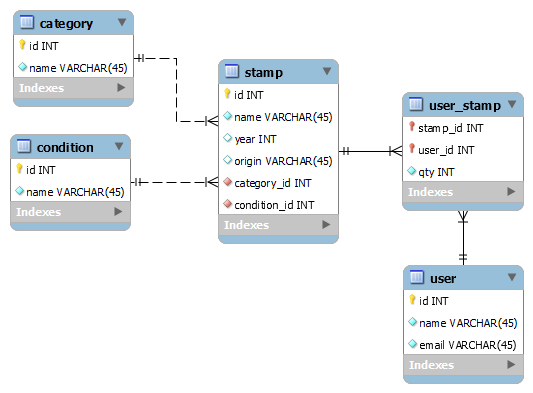
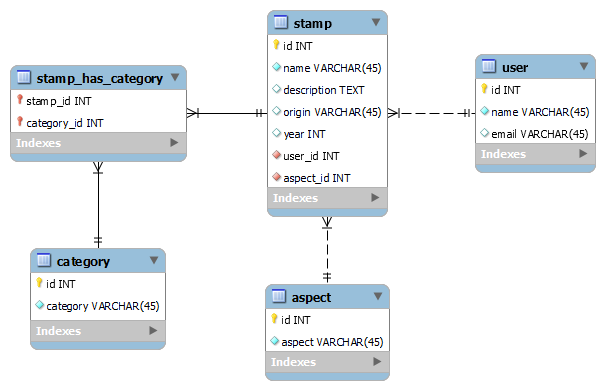
all new system

diff --git a/class/Manager.php b/class/Manager.php
@@ -4,22 +4,6 @@ require "./class/Stamp.php";
 require "./class/User.php";
 
 class Manager {
-    private $stampReq = [ 
-            "table" => "stamp",
-            "tablesMerge" => [
-                "aspect",
-                "category"
-            ],
-            "targets" => [
-                "stamp.id",
-                "stamp.name as name",
-                "stamp.year",
-                "stamp.origin",
-                "stamp.description",
-                "aspect.name as aspect", 
-                "category.name as category"
-            ]
-    ];
     private $crud;
 
     public function __construct() {
@@ -30,10 +14,30 @@ class Manager {
         return $this->crud->readStd($this->stampReq["table"], ["stamp.name", "stamp.id"]);
     }
 
-    public function getObjStamps() {
+    public function getObjStamps($where = null) {
         $objStamps = [];
-        $stamps = $this->crud->readStd($this->stampReq["table"], $this->stampReq["targets"], $this->stampReq["tablesMerge"]);
-        foreach ($stamps as $stamp) $objStamps[] = new Stamp($stamp);
+        $targets = [
+            "stamp.*",
+            "aspect.aspect"
+        ];
+        $tablesMrg = [
+            "aspect"
+        ];
+        $stamps = $this->crud->read("stamp", $targets, $tablesMrg, $where);
+        foreach ($stamps as $stamp) {
+            $targets = [
+                "category.category"
+            ];
+            $tablesMrg = [
+                "category"
+            ];
+            $where = [
+                "target" => "stamp_id",
+                "value" => $stamp["id"]
+            ];
+            $categories = $this->crud->read("stamp_category", $targets, $tablesMrg, $where);
+            $objStamps[] = new Stamp($stamp, $categories);
+        }
         return $objStamps;
     }
 
@@ -42,7 +46,7 @@ class Manager {
             "target" => "stamp.id",
             "value" => $id
         ];
-        $stamps = $this->crud->readStd($this->stampReq["table"], $this->stampReq["targets"], $this->stampReq["tablesMerge"], $where);
+        $stamps = $this->crud->read($this->stampReq["table"], $this->stampReq["targets"], $this->stampReq["tablesMerge"], $where);
         foreach ($stamps as $stamp) $objStamp = new Stamp($stamp);
         return $objStamp;
     }

diff --git a/crud/Crud.php b/crud/Crud.php
@@ -9,7 +9,7 @@ class Crud extends PDO {
         $this->dbname = $dbname;
     }
 
-    public function readStd($tableOg, $targets = "*", $tablesMg = null, $where = null, $field = "id", $order = "ASC") {
+    public function read($tableOg, $targets = "*", $tablesMrg = null, $where = null, $field = "id", $order = "ASC") {
         $sqlWhere = "";
         if ($where) {
             $target = $where["target"];
@@ -18,16 +18,18 @@ class Crud extends PDO {
         }
         if ($targets != "*") $targets = implode(", ", $targets);
         $sql = "SELECT $targets FROM $tableOg";
-        if ($tablesMg) {
+        if ($tablesMrg) {
             $sqlMerge = "";
-            foreach ($tablesMg as $tableMg) {
-                $idOg = $tableMg . "_id";
-                $id = $tableMg . ".id";
-                $sqlMerge .= " INNER JOIN $this->dbname.$tableMg ON $id = $idOg";
+            foreach ($tablesMrg as $tableMrg) {
+                $idOg = $tableMrg . "_id";
+                $id = $tableMrg . ".id";
+                $sqlMerge .= " INNER JOIN $this->dbname.$tableMrg ON $id = $idOg";
             }
             $sql .= "$sqlMerge";
         } 
         $sql .= "$sqlWhere;";
+/*         print_r($sql);
+        die(); */
         $query = $this->query($sql);
         return $query->fetchAll();
     }

diff --git a/class/Stamp.php b/class/Stamp.php
@@ -1,25 +1,24 @@
 <?php
 
 class Stamp {
-    public
+    private
     $id,
     $name,
     $description,
     $origin,
     $year,
-    $category,
+    $categories,
     $aspect;
 
-    public function __construct($stamp) {
+    public function __construct($stamp, $categories) {
         $this->id =$stamp["id"];
         $this->name = $stamp["name"];
         $this->description = $stamp["description"];
         $this->origin = $stamp["origin"];
         $this->year = $stamp["year"];
-        $this->category = $stamp["category"];
         $this->aspect = $stamp["aspect"];
+        $this->categories = $categories;
     }
-
 
     public function getName() {
         return $this->name;
@@ -61,7 +60,7 @@ class Stamp {
             <form action="stamp-modify.php" method="post">
                 <input type="hidden" name="id" value="<?= $this->id ?>">
                 <input type="submit" value="modify">
-        </form>
+            </form>
         </section>
         <?php
     }

diff --git a/class/ViewContent.php b/class/ViewContent.php
@@ -11,17 +11,17 @@ class ViewContent {
             </header>
             <section>
 
-        <?php for ($i=0; $i < 5; $i++) $objStamps[$i]->injectShort(); ?>
+        <?php foreach ($objStamps as $objStamp) $objStamp->injectShort(); ?>
 
             </section>
         </main>
         <?php
     }
 
-    static public function stampShow($objStamp) {
+    static public function stampShow($objStamps) {
         ?>
         <main>
-           <?php $objStamp->injectLong(); ?>
+        <?php foreach ($objStamps as $objStamp) $objStamp->injectLong(); ?>
         </main>
         <?php
     }

diff --git a/stamp-show.php b/stamp-show.php
@@ -12,8 +12,7 @@ ViewLayout::schoolHeader("home");
 ViewLayout::navigation();
 
 $manager = new Manager();
-$objStamp = $manager->getObjStamp($id);
-
-ViewContent::stampShow($objStamp);
+$objStamps = $manager->getObjStamps(["target" => "stamp.id", "value" => $id]);
+ViewContent::stampShow($objStamps);
 ViewLayout::footer();
 ?>

diff --git a/index.php b/index.php
@@ -8,7 +8,6 @@ ViewLayout::navigation();
 
 $manager = new Manager();
 $objStamps = $manager->getObjStamps();
-
 ViewContent::home($objStamps);
 ViewLayout::footer(); 
 ?>
